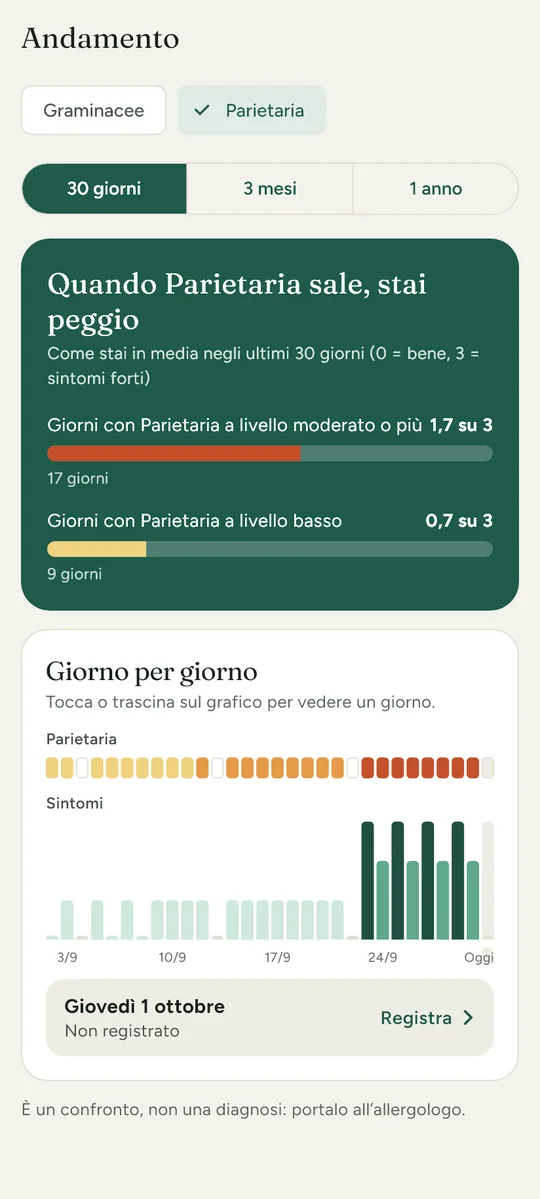
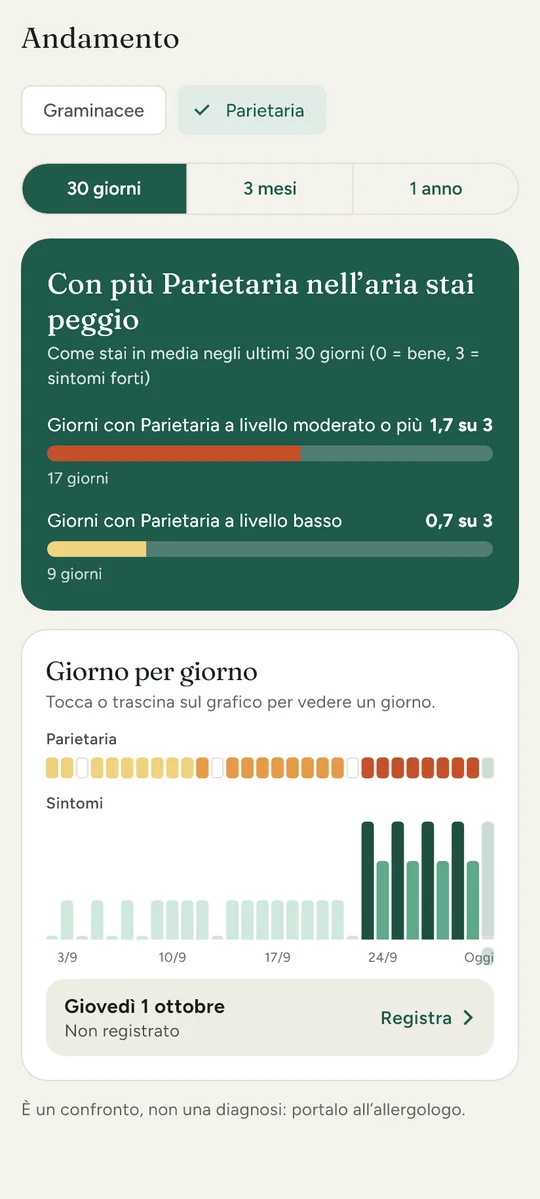
docs: README per la prima release e schermate aggiornate

Changed region(s): [[0.0889, 0.216, 0.8889, 0.2469], [0.8889, 0.6789, 0.9185, 0.8023], [0.8889, 0.6172, 0.9185, 0.648]]

diff --git a/README.md b/README.md
@@ -2,16 +2,18 @@
 
 # 🌾 Allergy Radar
 
-[![CI](https://github.com/lorenzocaputodev/allergy_radar/actions/workflows/ci.yml/badge.svg)](https://github.com/lorenzocaputodev/allergy_radar/actions/workflows/ci.yml) ![License](https://img.shields.io/badge/license-MIT-blue) ![Flutter](https://img.shields.io/badge/built%20with-Flutter-02569B)
+[![CI](https://github.com/lorenzocaputodev/allergy_radar/actions/workflows/ci.yml/badge.svg)](https://github.com/lorenzocaputodev/allergy_radar/actions/workflows/ci.yml) [![Release](https://img.shields.io/github/v/release/lorenzocaputodev/allergy_radar)](https://github.com/lorenzocaputodev/allergy_radar/releases/latest) [![License](https://img.shields.io/github/license/lorenzocaputodev/allergy_radar)](LICENSE) ![Flutter](https://img.shields.io/badge/built%20with-Flutter-02569B)
 
 > **Scopri quanti pollini ci sono nella tua zona e quali ti danno davvero fastidio.**
 
-- 🌿 Graminacee, Parietaria e altri 8 allergeni in tutta Italia, con la fonte di ogni dato sempre in vista
+- 🌿 Graminacee, Parietaria e altri 8 allergeni in tutta Italia: sai sempre se è una previsione, una misura o una stima
 - 🔒 Senza account e senza pubblicità: i tuoi dati restano solo sul tuo telefono
 
 ## 📲 Scarica l’app
 
-L’app è in sviluppo e non c’è ancora una versione pubblicata. Quando uscirà, l’APK sarà nella pagina delle **[release](https://github.com/lorenzocaputodev/allergy_radar/releases)**; per ora si compila dal sorgente, come spiegato più sotto.
+Vuoi solo installarla? Scarica l’APK dall’**[ultima versione pubblicata](https://github.com/lorenzocaputodev/allergy_radar/releases/latest)** e aprilo dal telefono: Android ti chiederà di consentire l’installazione di app scaricate dal browser.
+
+Serve Android 7.0 o successivo.
 
 ## 📸 Schermate
 
@@ -30,13 +32,13 @@ L’app è in sviluppo e non c’è ancora una versione pubblicata. Quando uscir
 
 - 🧭 Oggi: livello della giornata, i tuoi allergeni, i prossimi giorni, l’aria e gli altri pollini in zona
 - 🏷 Ogni valore dice se è una **previsione**, una **misura** o una **stima**
-- 🔎 Dettaglio di ogni allergene con andamento, stagione e soglia personale
-- 📓 Diario dei sintomi da 10 secondi, con farmaci, sonno e ore all’aperto
-- 📈 Andamento: per ogni allergene, se stai peggio quando sale, e giorno per giorno
+- 🔎 Dettaglio di ogni allergene: ora per ora, prossimi giorni, stagione e il livello da cui ti dà fastidio
+- 📓 Diario dei sintomi da 10 secondi, con i farmaci più usati già in lista, sonno e ore all’aperto
+- 📈 Andamento: per ogni allergene, se stai peggio quando ce n’è di più, e giorno per giorno
 - 🗓 Calendario stagionale per **Nord**, **Centro** e **Sud e Isole**
 - 📍 Luogo da ricerca città o dalla posizione approssimativa, con il nome del comune
-- 📲 Widget Android per la schermata Home
-- 🔔 Avvisi, proposti già al primo avvio, e l’elenco di quelli ricevuti
+- 📲 Widget Android per la schermata Home, con le pagine degli allergeni e il tasto per aggiornare
+- 🔔 Avvisi, proposti già al primo avvio, e l’elenco di quelli ricevuti, che cancelli con uno swipe
 - 📄 PDF per l’allergologo, diario in CSV, backup e ripristino
 - 🎨 Tema **scuro / chiaro / sistema**
 - 🔒 Dati salvati localmente sul dispositivo
@@ -45,11 +47,13 @@ L’app è in sviluppo e non c’è ancora una versione pubblicata. Quando uscir
 
 ## 🔔 Sistema notifiche
 
-L’app può mandare tre avvisi, ognuno con il suo orario:
+L’app può mandare tre avvisi, ognuno con il suo orario, anche ad app chiusa:
 
-- ☀ Briefing del mattino, anche solo nei giorni sopra la tua soglia
-- 📈 Domani peggiora, la sera
-- 📓 Promemoria del diario, se oggi non hai ancora registrato
+- ☀ **Pollini di oggi**, la mattina: cosa ti dà fastidio oggi, anche solo nei giorni in cui serve
+- 📈 **Allerta per domani**, la sera: se domani un tuo allergene arriva al livello che ti dà fastidio
+- 📓 **Promemoria diario**, se oggi non hai ancora registrato
+
+Con il permesso «Sveglie e promemoria» arrivano all’orario esatto; senza, possono tardare fino a un’ora.
 
 Le notifiche sono gestite su Android tramite:
 
@@ -130,6 +134,7 @@ flutter run
 - Nessun account richiesto
 - Nessun backend: l’app usa solo i dati aperti di Open-Meteo e ISPRA
 - Posizione solo approssimativa, e solo se la chiedi tu; il nome del comune lo ricava il telefono
+- Le misure ISPRA arrivano una volta a settimana: quando sono più vecchie di due settimane, o non c’è una stazione vicina, l’app usa il valore tipico del mese e lo dichiara come **stima**
 - Dati salvati localmente sul dispositivo
 
 Previsioni © Copernicus/CAMS tramite Open-Meteo e misure della rete POLLnet-SNPA di ISPRA, entrambe con licenza CC BY 4.0.
